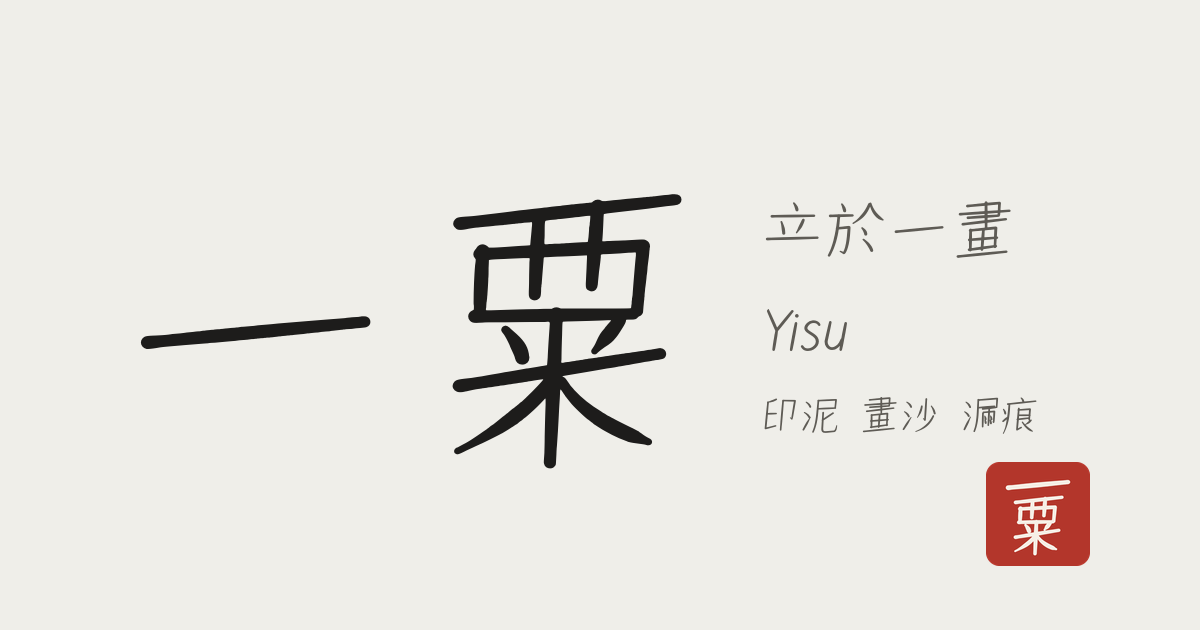
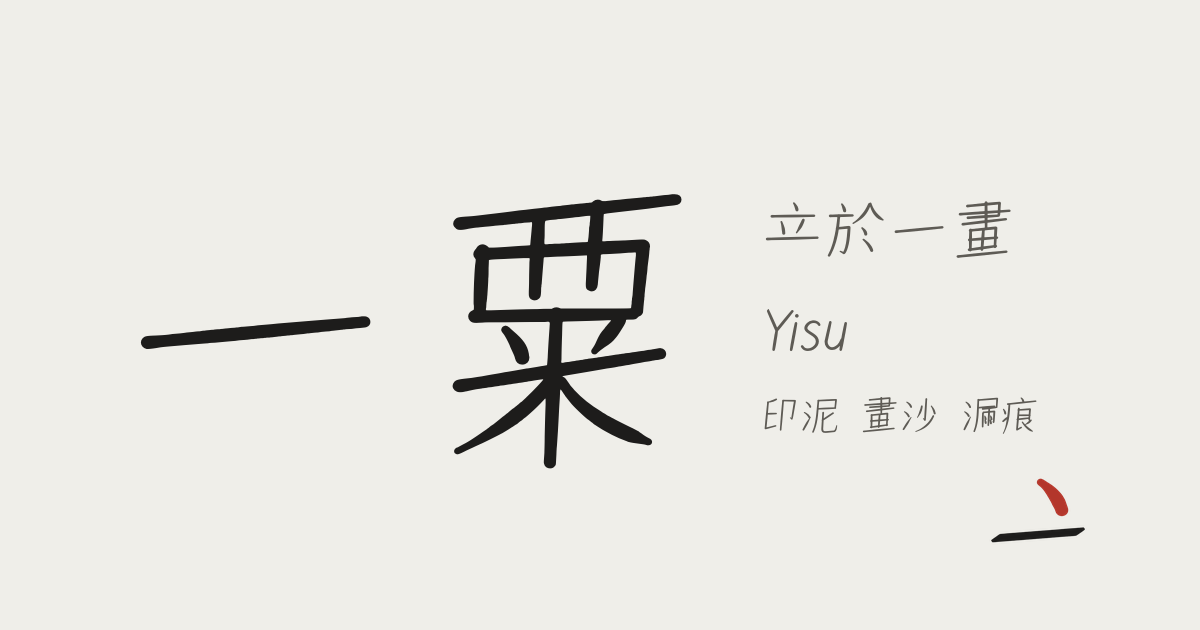
Change the mark to 滄海一粟: one stroke and a grain
The red seal was heavier than the page it sat on. The mark is now the
marker's bold 一 with a grain above it, in the page's own ink and
accent, so it follows day and night. Browser tabs get it on a light
tile, because an ink stroke would vanish on a dark tab bar.

tools/mark.py now holds each design it can draw; tools/og.py takes one
by name.

Changed region(s): [[0.8017, 0.7238, 0.925, 0.9048]]

diff --git a/public/index.html b/public/index.html
@@ -173,7 +173,7 @@ footer { margin-top: 60px; padding-top: 14px; border-top: 1px solid var(--line);
 <canvas class="sparks" id="sparks" aria-hidden="true"></canvas>
 <div class="wrap">
   <nav aria-label="網站導覽">
-    <a class="brand" href="#hero" data-to="hero"><!--mark--><svg xmlns="http://www.w3.org/2000/svg" viewBox="0 0 1000 1000" class="mark" aria-hidden="true"><rect width="1000" height="1000" rx="130" fill="var(--seal)"/><path fill="#f6efe6" d="M779 173C777 174 773 174 771 174C769 174 765 174 762 175C758 175 754 175 751 176C744 177 735 178 733 178C732 178 728 178 724 178C720 178 714 179 710 179C706 179 701 180 697 180C693 181 686 181 681 182C676 182 669 182 665 182C658 183 647 184 624 186C608 187 542 193 525 194C515 195 508 196 494 197C487 197 479 198 472 199C469 199 465 200 464 200C461 200 457 201 454 201C452 201 448 201 445 201C442 202 438 202 432 203C430 203 427 204 425 204C423 204 420 204 418 205C417 205 414 205 411 205C410 205 406 205 405 206C402 206 400 206 399 206C397 207 394 207 391 207C390 207 386 208 383 208C379 209 376 209 364 210C359 211 353 212 345 212C343 212 338 212 334 213C331 213 326 214 322 215C294 218 281 219 269 220C254 222 250 223 236 223C210 224 203 225 196 232C192 236 190 242 190 247C190 253 192 258 196 263C202 269 208 271 217 271C221 271 225 270 230 270C231 270 234 269 237 269C238 268 244 267 248 266C255 266 263 265 284 263C291 262 297 262 323 260C357 258 440 251 459 248C464 248 471 247 480 247C483 247 487 246 490 246C491 246 495 245 498 245C502 244 505 244 507 244C509 243 512 243 514 243C516 243 519 243 521 243C528 242 531 242 535 241C536 241 540 241 540 240C542 240 545 240 548 239C557 239 563 238 572 237C575 237 578 236 580 236C585 236 592 235 599 235C602 234 607 233 610 233C614 232 617 232 633 231C636 230 642 230 645 229C659 228 664 227 671 226C675 226 682 225 686 224C703 223 709 222 717 221C728 220 737 219 740 219C745 218 749 217 754 217C757 217 762 216 765 216C768 216 773 216 775 215C790 214 789 214 793 212C804 210 810 201 810 193C810 186 806 179 798 175C795 174 792 173 787 173C785 173 782 173 779 173ZM725 323C722 323 716 324 708 325C706 325 702 326 700 326C688 327 683 327 678 328C672 329 661 329 653 331C649 331 644 331 641 331C638 332 633 332 631 332C628 332 624 333 621 333C618 334 613 334 610 334C609 334 604 335 602 335C600 335 597 335 596 335C594 335 591 336 589 336C588 336 586 337 584 337H581L580 336C576 334 573 334 570 334C567 334 565 334 562 335C560 335 560 336 555 339C554 340 554 340 549 340C547 340 545 340 544 340C542 341 541 341 539 341C537 341 534 342 533 342C531 342 528 342 526 342C523 343 519 344 512 344C510 344 507 345 505 345C500 345 495 346 490 347C486 347 479 348 471 348C468 349 463 350 460 350C451 351 440 352 427 353C413 355 337 365 336 365C333 366 312 368 301 368C286 369 280 370 276 373C269 376 267 382 267 388C267 397 274 405 285 406C286 406 286 406 287 406C290 406 298 405 306 403C316 402 323 400 335 400C337 399 341 399 343 399C346 399 350 398 353 398C356 397 361 397 363 397C368 397 373 396 380 395C383 395 386 395 387 395C389 394 392 394 394 394C400 394 403 393 406 393C408 392 410 392 411 392C413 392 415 392 417 392C418 392 421 391 422 391C424 391 426 391 426 391H427C428 391 429 391 429 393C429 394 429 394 429 395C429 396 428 399 428 401C427 403 427 407 427 408C427 411 426 418 426 423C426 429 426 428 416 429C412 429 406 429 403 429C400 430 395 430 392 430C377 431 374 431 371 432C363 433 359 433 355 433C355 433 354 433 353 433H348L346 431C342 428 337 426 332 426C325 426 319 429 315 436C314 437 314 438 313 438C309 441 308 446 308 450C308 455 309 459 311 462C312 463 312 464 312 465C312 466 312 467 312 467C312 468 312 472 312 474C311 476 311 480 311 483C309 497 309 512 309 532C309 535 309 538 309 541L309 562L308 562C308 563 307 564 306 564C301 567 298 574 298 580C298 582 298 585 299 587C303 595 309 598 321 598C323 598 325 598 329 597C337 596 339 596 346 596C348 596 351 596 356 596C369 596 372 596 372 597C372 598 372 598 371 599C369 601 368 604 368 607C368 609 368 611 370 614C374 619 376 623 382 639C385 647 389 655 391 661C392 663 393 666 393 667C395 675 400 680 406 682C407 683 408 683 408 684C408 684 406 684 403 685C401 685 398 686 398 686C398 686 395 687 390 687C386 688 379 689 376 690C372 690 366 692 364 692C361 692 356 693 354 693C351 694 347 695 345 695C342 696 339 697 337 697C329 698 325 699 322 700C320 700 318 700 317 700C314 701 308 702 299 703C283 704 278 705 274 708C268 711 265 717 265 723C265 730 270 737 280 740C281 740 283 740 285 740C289 740 294 740 301 738C304 737 307 737 308 737C308 737 310 736 312 736C316 734 321 734 335 732C337 732 340 731 340 731C342 731 346 731 351 730C352 729 355 729 356 729C359 729 364 728 369 727C371 727 372 727 373 726C373 726 375 726 377 726C379 726 385 725 392 724C393 724 395 723 397 723C398 723 401 723 403 722C405 722 408 721 410 721C412 721 415 721 416 720C418 720 420 719 421 719C422 719 424 719 426 719C428 718 431 718 432 718C434 718 436 717 437 717C440 716 442 716 442 716C444 716 444 716 444 717C444 718 432 729 425 736C413 747 408 752 400 758C397 760 395 762 394 763C393 764 392 765 390 766C390 766 388 768 387 769C385 770 384 771 382 772C382 773 379 775 377 777C374 779 372 781 371 781C370 782 368 784 366 785C365 786 363 787 363 788C361 789 360 790 359 791C359 791 358 792 357 793C356 794 354 795 352 797C351 798 348 800 346 802C344 804 342 805 340 807C330 815 307 831 299 836C299 836 298 837 297 837C295 839 291 841 280 847C274 850 270 853 270 857C270 858 271 860 272 862C274 865 277 866 280 866C282 866 285 865 288 863C291 862 295 860 297 860C299 859 301 857 302 857C302 857 304 856 306 855C308 854 311 854 312 853C314 852 317 851 319 850C321 849 324 848 325 847C326 847 328 846 330 845C337 842 353 835 361 831C373 825 388 818 399 810C405 807 417 798 424 792C435 782 439 779 448 770C452 766 455 763 456 763C456 763 457 763 457 767C457 769 457 773 457 778C456 796 455 815 455 833C455 847 455 853 454 870C454 874 454 877 454 880C454 885 455 887 457 890C460 895 465 898 471 898C476 898 482 895 485 890C487 886 488 885 489 874C489 857 489 857 491 833C491 829 492 825 492 823C492 821 492 817 492 814C493 812 493 807 493 805C493 803 494 799 494 797C494 794 497 753 497 748C497 745 497 744 498 744C498 744 499 745 499 745C500 748 509 759 510 761C519 771 522 774 528 780C541 793 554 804 568 812C574 817 576 818 581 821C584 823 587 824 587 824C589 826 614 837 622 840C623 841 625 841 627 842C635 845 639 846 653 846C664 846 666 846 670 847C671 848 672 848 674 848C680 848 685 843 685 838C685 834 683 831 680 829C680 829 678 828 677 828C673 826 669 823 663 818C657 812 652 808 645 805C631 798 615 790 605 785C602 783 599 782 598 781C596 780 593 779 591 777C588 776 585 774 584 773C583 773 581 771 580 771C578 770 575 768 573 766C568 764 557 756 555 755C555 755 554 754 552 753C551 752 549 751 549 750C548 750 547 748 546 748C532 737 518 723 510 710C508 708 508 707 508 706C508 706 509 705 512 705C517 705 531 702 531 702C531 702 538 701 544 700C551 698 557 697 557 697C558 697 560 697 564 696C567 695 573 695 576 694C578 693 583 693 586 692C589 692 593 691 595 690C597 690 601 690 604 689C607 689 610 688 613 687C615 687 619 687 620 686C622 686 625 685 628 685C630 684 633 684 635 684C637 683 640 683 640 682C642 682 648 681 654 680C662 679 685 675 699 672C709 671 716 665 716 657C716 656 716 654 715 653C713 645 707 640 698 640C696 640 695 641 693 641C691 641 687 642 684 642C681 643 675 643 672 644C662 646 656 646 649 648C648 648 646 648 645 648C644 648 641 649 638 650C626 651 623 651 622 651C622 651 619 652 617 652C614 653 610 653 605 654C603 654 600 655 598 655C596 655 594 655 594 655C594 655 592 656 590 656C588 656 584 657 581 657C576 658 573 658 571 658C570 658 570 658 570 658C570 658 571 657 572 656C575 653 578 650 588 646C597 641 606 634 611 627C611 627 612 625 613 625C618 619 630 598 633 593C633 591 633 591 640 590C648 590 651 589 654 585C655 585 657 584 658 583C665 580 667 576 668 567C668 565 669 562 669 561C669 559 669 556 669 554C669 551 670 548 670 547C670 545 670 542 670 540C671 535 671 532 672 528C672 525 672 523 674 508C675 504 675 497 676 493C676 489 677 483 677 480C678 472 680 462 680 453C681 450 682 445 682 442C682 439 682 437 682 434C682 429 681 426 677 421C672 417 670 416 661 416C658 416 655 416 651 416C632 417 598 418 592 419C590 419 589 419 588 419C585 419 585 418 585 416C585 415 585 413 585 411C586 405 586 389 586 381C586 373 586 373 588 373C588 373 602 371 619 368C635 366 649 365 651 365C652 364 658 363 665 363C672 361 677 361 677 361C678 361 693 359 700 358C703 358 707 357 709 357C712 357 716 357 718 357C732 355 734 354 737 353C743 350 747 344 747 339C747 333 743 327 737 324C735 323 732 322 729 322C728 322 726 322 725 323ZM548 378C549 378 549 378 549 379C549 380 549 382 547 388C546 398 546 404 545 413C544 421 544 421 542 421C542 421 539 421 537 421C534 421 530 422 527 422C524 422 520 423 517 423C515 423 510 423 508 423C500 423 486 425 476 425C472 425 470 425 468 425C466 425 466 425 465 425C465 425 465 423 465 420C465 410 466 388 466 387C466 387 467 386 470 386C471 386 475 386 483 385C486 384 489 384 492 384C497 383 505 382 513 381C515 381 521 381 525 380C529 379 536 379 540 378C545 378 547 378 547 378C548 378 548 378 548 378ZM643 454V454C643 455 643 455 643 455C643 457 642 462 641 477C641 481 640 487 640 491C640 494 639 500 639 503C638 520 637 528 636 536C636 538 636 541 636 543C635 548 635 552 635 555C634 557 634 557 633 558C633 558 627 559 614 559C607 559 598 559 586 559C569 558 542 558 525 558H495L493 557C490 556 487 556 485 556C482 556 479 556 476 557L473 558L456 559C440 559 417 559 406 560C404 560 395 560 387 561C378 561 366 561 358 562C354 562 350 562 348 562C345 562 345 562 345 560C345 559 345 558 345 557C345 553 346 544 347 538C347 536 348 533 348 531C348 530 348 527 348 525C350 515 350 496 350 480C350 478 350 476 350 475C350 467 350 467 353 467C358 467 364 466 369 466C372 466 384 465 397 465C412 464 418 464 421 464C423 464 423 464 423 464C423 465 423 474 423 485C423 501 423 519 423 527C423 531 423 533 423 535C423 536 423 537 423 538C424 546 432 551 440 551C444 551 447 549 451 547C455 544 457 540 457 533C457 526 458 521 458 517C460 504 460 497 461 489C461 487 461 484 462 483C462 483 462 477 463 472C463 462 463 462 465 462C466 462 466 462 466 462C467 462 483 462 497 461C500 460 505 460 509 460C513 460 521 460 528 459C534 459 539 459 541 459H541C542 459 542 460 542 462C542 463 542 464 542 465C542 468 541 477 541 485C541 496 541 501 540 508C540 513 540 515 540 517C540 517 540 518 540 519C542 527 549 532 557 532C562 532 567 530 571 525C573 522 574 520 575 511C575 507 575 503 575 502C576 499 577 491 577 490C577 489 578 481 580 473C580 464 581 457 581 457C582 457 583 457 592 456C597 455 609 455 620 454C634 454 639 453 641 453C642 453 642 453 643 454ZM585 593C585 593 584 594 582 596C581 598 579 600 578 601C577 602 576 604 575 604C575 605 574 606 573 606C570 611 567 618 564 626C560 637 559 640 555 645C554 646 553 649 553 651C553 654 554 656 557 658C558 659 559 659 559 659C559 661 555 661 545 663C543 663 541 663 539 663C538 663 536 664 534 664C532 664 530 664 529 665C528 665 526 665 525 666C524 666 520 666 518 666C515 667 512 668 511 668C510 668 507 668 506 668C504 669 503 669 502 669C500 669 500 668 500 667C500 666 500 665 500 664C500 658 501 640 501 620C501 609 502 599 502 598C502 595 500 595 514 595C528 595 541 594 550 593C553 593 561 593 567 593C573 593 578 592 579 592C581 592 582 592 583 592C584 592 584 592 585 593ZM465 596C465 597 465 597 465 598C465 598 465 598 465 598C465 599 465 601 465 603C465 606 465 609 465 611C465 613 464 616 464 619C464 621 463 624 463 626C463 634 461 659 460 671C460 676 461 676 453 677C437 679 430 680 427 680C427 680 427 680 427 680C427 680 427 679 429 678C432 674 435 670 435 664C435 663 434 660 434 658C434 657 433 655 432 653C430 636 419 622 401 608C395 604 390 601 388 598C387 598 386 597 386 597C386 596 392 596 416 596C432 596 450 596 455 596C457 596 459 596 460 596C465 596 465 596 465 596Z"/></svg><!--/mark--><b class="spec">一粟</b><span>Yisu</span></a>
+    <a class="brand" href="#hero" data-to="hero"><!--mark--><svg xmlns="http://www.w3.org/2000/svg" viewBox="0 0 1000 1000" class="mark" aria-hidden="true"><path fill="var(--ink)" d="M921 630C916 630 905 631 897 632C889 632 876 633 869 634C840 636 820 637 756 642C749 643 736 644 729 644C721 645 708 646 700 647C675 649 658 650 647 651C641 651 630 652 621 653C608 654 595 655 565 658C558 659 545 659 537 660C529 661 517 662 509 662C502 663 488 664 481 664C445 667 437 668 425 669C417 669 404 670 397 671C389 671 376 672 368 673C360 674 349 674 343 675C333 676 323 676 290 679C281 680 269 681 261 681C231 683 218 684 205 685C197 686 185 687 177 688C137 691 136 691 133 692C129 694 124 697 91 721C58 744 50 749 50 754C50 756 51 758 53 761C56 765 60 770 61 771C62 771 62 771 63 771C65 771 72 771 89 770C120 767 131 766 174 763C211 760 217 760 227 759C233 759 245 758 253 757C260 757 273 756 280 755C289 754 301 753 309 753C322 752 339 751 365 749C373 748 386 747 393 746C401 746 413 745 422 744C429 744 441 742 449 741C458 740 470 740 478 739C485 738 497 737 506 737C514 736 525 735 531 735C537 734 549 733 556 733C564 732 577 731 584 731C593 730 605 729 613 729C620 728 634 727 641 726C649 726 661 725 669 724C721 720 736 719 753 718C761 717 774 716 781 716C789 715 802 714 810 714C818 713 829 712 835 712C870 709 864 711 891 692C941 659 950 651 950 646C950 645 950 645 950 645C950 642 942 631 940 629C939 629 938 629 936 629C933 629 928 629 921 630Z"/><path fill="var(--accent)" d="M516 162C499 166 490 179 490 194C490 197 490 203 492 207C494 212 499 218 512 229C531 242 557 272 570 294C583 313 587 319 594 333C600 341 605 350 605 352C607 354 611 360 613 365C617 371 622 380 626 388C630 395 635 406 637 412C660 451 661 455 667 472C673 488 676 494 684 501C697 514 714 520 729 520C760 520 792 496 790 462C790 451 790 451 783 427C779 419 775 406 773 401C770 391 764 373 758 361C757 356 742 333 740 328C738 326 736 322 734 320C732 317 721 302 712 292C701 279 674 253 658 240C641 225 605 203 587 192C583 188 577 186 576 184C551 167 536 160 523 160C522 160 518 160 516 162Z"/></svg><!--/mark--><b class="spec">一粟</b><span>Yisu</span></a>
     <span class="links"><a href="#hero" data-to="hero">寫卷</a><a href="#name" data-to="name">名字</a><a href="#pens" data-to="pens">三筆</a><a href="#lib" data-to="lib">字庫</a><a href="#try" data-to="try">試寫</a><a href="#get" data-to="get">下載</a><a href="#en" data-to="en" lang="en">EN</a></span>
     <span class="ctl"><span class="seg theme" role="group" aria-label="明暗主題">
       <button id="theme-light" data-set="light" aria-pressed="true" aria-label="白天：天雨粟"><svg viewBox="0 0 16 16" aria-hidden="true"><circle cx="8" cy="8" r="3"/><path d="M8 1.2v1.6M8 13.2v1.6M1.2 8h1.6M13.2 8h1.6M3.2 3.2l1.1 1.1M11.7 11.7l1.1 1.1M3.2 12.8l1.1-1.1M11.7 4.3l1.1-1.1"/></svg><span>天雨粟</span></button>

diff --git a/tools/mark.py b/tools/mark.py
@@ -1,13 +1,12 @@
-"""Draw the site's mark, a red seal cut with 一粟, from the fonts' own outlines.
+"""Draw the site's mark from the fonts' own outlines.
 
-    FONTS/.venv/bin/python tools/mark.py FONTS
+    FONTS/.venv/bin/python tools/mark.py FONTS [NAME]
 
-FONTS is a checkout of the fonts with out/ built. Two drawings share one square of 1000:
-the full seal (一 over 粟) for anything 40 px and up, and a small one for browser tabs,
-where the top of 粟 is reduced to the one stroke, leaving 一 over 米, in a thicker pen with
-some ink gain so that each stroke is about two pixels at 16 px.
-Writes public/favicon.svg, favicon.png and apple-touch-icon.png, and the mark in the
-page's navigation (between the "mark" comments in public/index.html).
+FONTS is a checkout of the fonts with out/ built; NAME picks one of DESIGNS (default: CHOSEN).
+Each design has two drawings on one square of 1000: the full mark, and a small one for
+browser tabs, where there are only 16 px to draw in. Writes public/favicon.svg, favicon.png
+and apple-touch-icon.png, and the mark in the page's navigation (between the "mark"
+comments in public/index.html).
 """
 import re
 import sys
@@ -21,63 +20,133 @@ from fontTools.ttLib import TTFont
 from PIL import Image, ImageDraw, ImageFont
 
 SITE = Path(__file__).resolve().parent.parent / 'public'
-SEAL, CREAM = '#b3362b', '#f6efe6'
-HAND, MARKER = 'PinboardBallpoint-Bold', 'PinboardMarker-Bold'
-# A drawing: the corner radius, the extra stroke width, and each glyph with the middle of
-# its outline at (cx, cy) and either a width or a height, all on the square of 1000.
-FULL = dict(radius=130, gain=0, glyphs=[(HAND, '一', 500, 222, dict(w=620)), (HAND, '粟', 506, 610, dict(h=575))])
-SMALL = dict(radius=170, gain=40, glyphs=[(MARKER, '一', 500, 205, dict(w=690)), (MARKER, '米', 500, 628, dict(h=570))])
+HAND, HAND_LIGHT, MARKER = 'PinboardBallpoint-Bold', 'PinboardBallpoint-Regular', 'PinboardMarker-Bold'
+# What each colour name means by day, by night, and inside the page (which has both).
+DAY = dict(ink='#1d1c1b', hot='#b3362b', seal='#b3362b', cream='#f6efe6', paper='#efeee9', chip='#f6f5f1')
+NIGHT = dict(ink='#ece8da', hot='#d9b45a', seal='#c4472f', cream='#f6efe6', paper='#0b0f17', chip='#121927')
+PAGE = dict(ink='var(--ink)', hot='var(--accent)', seal='var(--seal)', cream='#f6efe6', paper='var(--paper)', chip='var(--panel)')
+# A drawing: tile is the rounded square behind (its corner radius and colour), parts are
+# glyphs with the middle of their outline at (cx, cy), scaled to a width or a height, each
+# in a named colour; cuts are glyphs taken out of the parts; gain thickens every stroke.
+DESIGNS = {
+    # A red seal cut with 一粟; for tabs, the top of 粟 is reduced to the one stroke: 一 over 米.
+    'H': dict(
+        full=dict(tile=(130, 'seal'), parts=[(HAND, '一', 500, 222, dict(w=620), 'cream'), (HAND, '粟', 506, 610, dict(h=575), 'cream')]),
+        small=dict(tile=(170, 'seal'), gain=40, parts=[(MARKER, '一', 500, 205, dict(w=690), 'cream'), (MARKER, '米', 500, 628, dict(h=570), 'cream')])),
+    # One grain, split by the one stroke.
+    'I': dict(
+        full=dict(parts=[(HAND, '、', 500, 500, dict(h=780), 'hot')], cuts=[(HAND_LIGHT, '一', 530, 540, dict(w=900))]),
+        small=dict(parts=[(HAND, '、', 500, 500, dict(h=940), 'hot')], cuts=[(HAND, '一', 530, 548, dict(w=1250))])),
+    # A grain over the sea: the one stroke in the marker's bold, the grain above it.
+    'K': dict(
+        full=dict(parts=[(MARKER, '一', 500, 700, dict(w=900), 'ink'), (HAND, '、', 640, 340, dict(h=360), 'hot')]),
+        small=dict(tile=(190, 'chip'), gain=24, parts=[(MARKER, '一', 500, 710, dict(w=800), 'ink'), (HAND, '、', 630, 345, dict(h=390), 'hot')])),
+}
+CHOSEN = 'K'
 
 
 class Mark:
-    def __init__(self, fonts, spec):
-        self.spec, self.parts = spec, []
-        for face, ch, cx, cy, size in spec['glyphs']:
-            path = Path(fonts) / 'out' / f'{face}.otf'
-            font = TTFont(path)
-            glyphs = font.getGlyphSet()
-            glyph = glyphs[font.getBestCmap()[ord(ch)]]
-            bounds = BoundsPen(glyphs)
-            glyph.draw(bounds)
-            x0, y0, x1, y1 = bounds.bounds
-            s = size['w'] / (x1 - x0) if 'w' in size else size['h'] / (y1 - y0)
-            # The glyph's origin on the square; its y axis points up, the square's down.
-            ox, oy = cx - (x0 + x1) / 2 * s, cy + (y0 + y1) / 2 * s
-            pen = SVGPathPen(glyphs, ntos=lambda v: str(round(v)))
-            glyph.draw(TransformPen(pen, Transform(s, 0, 0, -s, ox, oy)))
-            self.parts.append((path, ch, s, ox, oy, pen.getCommands()))
+    def __init__(self, fonts, spec, scale=1.0):
+        self.spec, self.scale = spec, scale
+        self.parts = [self.place(fonts, *p[:5]) + (p[5],) for p in spec['parts']]
+        self.cuts = [self.place(fonts, *c) for c in spec.get('cuts', [])]
 
-    def svg(self, seal=SEAL, cream=CREAM, attrs='', square=False):
-        r, gain = 0 if square else self.spec['radius'], self.spec['gain']
-        ink = f'fill="{cream}"' + (f' stroke="{cream}" stroke-width="{gain}" stroke-linejoin="round"' if gain else '')
-        d = ''.join(p[5] for p in self.parts)
-        return (f'<svg xmlns="http://www.w3.org/2000/svg" viewBox="0 0 1000 1000"{attrs}>'
-                f'<rect width="1000" height="1000" rx="{r}" fill="{seal}"/><path {ink} d="{d}"/></svg>')
+    def place(self, fonts, face, ch, cx, cy, size):
+        path = Path(fonts) / 'out' / f'{face}.otf'
+        font = TTFont(path)
+        glyphs = font.getGlyphSet()
+        glyph = glyphs[font.getBestCmap()[ord(ch)]]
+        bounds = BoundsPen(glyphs)
+        glyph.draw(bounds)
+        x0, y0, x1, y1 = bounds.bounds
+        k = self.scale
+        s = (size['w'] / (x1 - x0) if 'w' in size else size['h'] / (y1 - y0)) * k
+        cx, cy = 500 + (cx - 500) * k, 500 + (cy - 500) * k
+        # The glyph's origin on the square; its y axis points up, the square's down.
+        ox, oy = cx - (x0 + x1) / 2 * s, cy + (y0 + y1) / 2 * s
+        pen = SVGPathPen(glyphs, ntos=lambda v: str(round(v)))
+        glyph.draw(TransformPen(pen, Transform(s, 0, 0, -s, ox, oy)))
+        return path, ch, s, ox, oy, pen.getCommands()
 
-    def image(self, px, square=False, seal=SEAL, cream=CREAM):
+    def colours(self):
+        return list(dict.fromkeys(p[6] for p in self.parts))
+
+    def svg(self, colours=DAY, attrs='', square=False, night=None, uid='mark-cut'):
+        """The mark as SVG. With night, the file follows the reader's light or dark setting."""
+        gain, tile = self.spec.get('gain', 0), self.spec.get('tile')
+        paint = lambda key: f'class="c-{key}"' if night else f'fill="{colours[key]}"'
+        out = ''
+        if night:
+            keys = self.colours() + ([tile[1]] if tile else [])
+            edge = lambda pal, k: f';stroke:{pal[k]}' if gain else ''
+            rule = lambda pal: ''.join(f'.c-{k}{{fill:{pal[k]}{edge(pal, k)}}}' for k in keys)
+            out += f'<style>{rule(colours)}@media(prefers-color-scheme:dark){{{rule(night)}}}</style>'
+        if tile:
+            out += f'<rect width="1000" height="1000" rx="{0 if square else tile[0]}" {paint(tile[1])} stroke-width="0"/>'
+        ink = ''
+        for key in self.colours():
+            d = ''.join(p[5] for p in self.parts if p[6] == key)
+            edge = f' stroke-width="{gain}" stroke-linejoin="round"' if gain else ''
+            if gain and not night:
+                edge += f' stroke="{colours[key]}"'
+            ink += f'<path {paint(key)}{edge} d="{d}"/>'
+        if self.cuts:
+            d = ''.join(c[5] for c in self.cuts)
+            out += (f'<mask id="{uid}"><rect width="1000" height="1000" fill="#fff"/><path d="{d}"/></mask>'
+                    f'<g mask="url(#{uid})">{ink}</g>')
+        else:
+            out += ink
+        return f'<svg xmlns="http://www.w3.org/2000/svg" viewBox="0 0 1000 1000"{attrs}>{out}</svg>'
+
+    def image(self, px, colours=DAY, square=False, back=None):
         """The mark as a picture px wide, drawn large and then reduced."""
         big = px * max(4, -(-768 // px))
         k = big / 1000
-        im = Image.new('RGBA', (big, big), (0, 0, 0, 0))
-        d = ImageDraw.Draw(im)
-        d.rounded_rectangle((0, 0, big - 1, big - 1), 0 if square else self.spec['radius'] * k, fill=seal)
-        for path, ch, s, ox, oy, _ in self.parts:
-            font = ImageFont.truetype(str(path), s * 1000 * k)
-            d.text((ox * k, oy * k), ch, font=font, fill=cream, anchor='ls',
-                   stroke_width=round(self.spec['gain'] * k / 2), stroke_fill=cream)
+        im = Image.new('RGBA', (big, big), back or (0, 0, 0, 0))
+        tile, gain = self.spec.get('tile'), round(self.spec.get('gain', 0) * k / 2)
+        if tile:
+            ImageDraw.Draw(im).rounded_rectangle((0, 0, big - 1, big - 1), 0 if square else tile[0] * k, fill=colours[tile[1]])
+
+        def write(d, part, value):
+            path, ch, s, ox, oy = part[:5]
+            d.text((ox * k, oy * k), ch, font=ImageFont.truetype(str(path), s * 1000 * k), fill=value, anchor='ls',
+                   stroke_width=gain, stroke_fill=value)
+
+        for key in self.colours():
+            mask = Image.new('L', (big, big), 0)
+            d = ImageDraw.Draw(mask)
+            for p in self.parts:
+                if p[6] == key:
+                    write(d, p, 255)
+            gain, keep = 0, gain
+            for c in self.cuts:
+                write(d, c, 0)
+            gain = keep
+            im.paste(Image.new('RGBA', (big, big), colours[key]), (0, 0), mask)
         return im.resize((px, px), Image.LANCZOS)
 
 
-if __name__ == '__main__':
-    full, small = Mark(sys.argv[1], FULL), Mark(sys.argv[1], SMALL)
-    (SITE / 'favicon.svg').write_text(small.svg() + '\n')
-    small.image(32).save(SITE / 'favicon.png', optimize=True)
-    full.image(180, square=True).convert('RGB').save(SITE / 'apple-touch-icon.png', optimize=True)
-    page = SITE / 'index.html'
-    html = page.read_text()
-    inline = full.svg('var(--seal)', CREAM, ' class="mark" aria-hidden="true"')
-    html, n = re.subn(r'(<!--mark-->).*?(<!--/mark-->)', lambda m: m[1] + inline + m[2], html, flags=re.S)
+def touch(fonts, name):
+    """The home-screen icon: no corners of its own (the phone cuts them), nothing see-through."""
+    spec = DESIGNS[name]['full']
+    if spec.get('tile'):
+        return Mark(fonts, spec).image(180, square=True).convert('RGB')
+    return Mark(fonts, spec, 0.78).image(180, back=DAY['paper']).convert('RGB')
+
+
+def write(fonts, name, site=SITE):
+    design = DESIGNS[name]
+    full, small = Mark(fonts, design['full']), Mark(fonts, design['small'])
+    (site / 'favicon.svg').write_text(small.svg(DAY, night=NIGHT) + '\n')
+    small.image(32).save(site / 'favicon.png', optimize=True)
+    touch(fonts, name).save(site / 'apple-touch-icon.png', optimize=True)
+    page = site / 'index.html'
+    inline = full.svg(PAGE, ' class="mark" aria-hidden="true"')
+    html, n = re.subn(r'(<!--mark-->).*?(<!--/mark-->)', lambda m: m[1] + inline + m[2], page.read_text(), flags=re.S)
     assert n == 1, 'the page has no <!--mark--> … <!--/mark--> pair'
     page.write_text(html)
-    print('favicon.svg', (SITE / 'favicon.svg').stat().st_size, 'favicon.png', (SITE / 'favicon.png').stat().st_size,
-          'apple-touch-icon.png', (SITE / 'apple-touch-icon.png').stat().st_size, 'inline', len(inline))
+    return {f: (site / f).stat().st_size for f in ('favicon.svg', 'favicon.png', 'apple-touch-icon.png')} | {'inline': len(inline)}
+
+
+if __name__ == '__main__':
+    print(write(sys.argv[1], sys.argv[2] if len(sys.argv) > 2 else CHOSEN))

diff --git a/tools/og.py b/tools/og.py
@@ -1,24 +1,33 @@
 """Draw the picture a link to the site shows (public/og.png), in the fonts themselves.
 
-    FONTS/.venv/bin/python tools/og.py FONTS
+    FONTS/.venv/bin/python tools/og.py FONTS [NAME]
+
+NAME picks the mark, as for tools/mark.py.
 """
 import sys
 from pathlib import Path
 
 from PIL import Image, ImageDraw, ImageFont
 
-from mark import FULL, Mark
+from mark import CHOSEN, DESIGNS, Mark
 
 SITE = Path(__file__).resolve().parent.parent
-OUT = Path(sys.argv[1]) / 'out'
 PAPER, INK, SOFT = '#efeee9', '#1d1c1b', '#5e5b55'
-im = Image.new('RGB', (1200, 630), PAPER)
-d = ImageDraw.Draw(im)
-hand = lambda size: ImageFont.truetype(str(OUT / 'PinboardBallpoint-Regular.otf'), size)
-d.text((110, 150), '一粟', font=hand(300), fill=INK)
-d.text((760, 190), '立於一畫', font=hand(64), fill=SOFT)
-d.text((760, 290), 'Yisu', font=hand(64), fill=SOFT)
-d.text((760, 390), '印泥  畫沙  漏痕', font=hand(40), fill=SOFT)
-seal = Mark(sys.argv[1], FULL).image(104)
-im.paste(seal, (986, 462), seal)
-im.save(SITE / 'public' / 'og.png', optimize=True)
+
+
+def draw(fonts, name=CHOSEN):
+    out = Path(fonts) / 'out'
+    im = Image.new('RGB', (1200, 630), PAPER)
+    d = ImageDraw.Draw(im)
+    hand = lambda size: ImageFont.truetype(str(out / 'PinboardBallpoint-Regular.otf'), size)
+    d.text((110, 150), '一粟', font=hand(300), fill=INK)
+    d.text((760, 190), '立於一畫', font=hand(64), fill=SOFT)
+    d.text((760, 290), 'Yisu', font=hand(64), fill=SOFT)
+    d.text((760, 390), '印泥  畫沙  漏痕', font=hand(40), fill=SOFT)
+    mark = Mark(fonts, DESIGNS[name]['full']).image(104)
+    im.paste(mark, (986, 462), mark)
+    return im
+
+
+if __name__ == '__main__':
+    draw(sys.argv[1], *sys.argv[2:3]).save(SITE / 'public' / 'og.png', optimize=True)

diff --git a/README.md b/README.md
@@ -20,7 +20,7 @@ The page writes its texts a stroke at a time, in vertical columns from right to 
 | `public/audio/vo/`, `vo.json` | The narration, one clip per sentence, and each clip's length. Generated. |
 | `public/audio/day.mp3`, `night.mp3` | The music for each theme. Generated. |
 | `public/og.png` | The picture a link to the site shows. Generated. |
-| `public/favicon.svg`, `favicon.png`, `apple-touch-icon.png` | The mark: a red seal cut with 一粟, and its simpler form for browser tabs. Generated, as is the mark in the page's navigation. |
+| `public/favicon.svg`, `favicon.png`, `apple-touch-icon.png` | The mark: one stroke with a grain above it (滄海一粟), and its form for browser tabs, on a light tile so the stroke shows on dark tab bars. Generated, as is the mark in the page's navigation. |
 | `public/_headers` | Cache rules for the files above. |
 | `tools/` | The scripts that generate those files. |
 | `tools/extra.py` | Five characters the two texts need that the fonts don't draw yet, put together from parts the fonts already have. |
